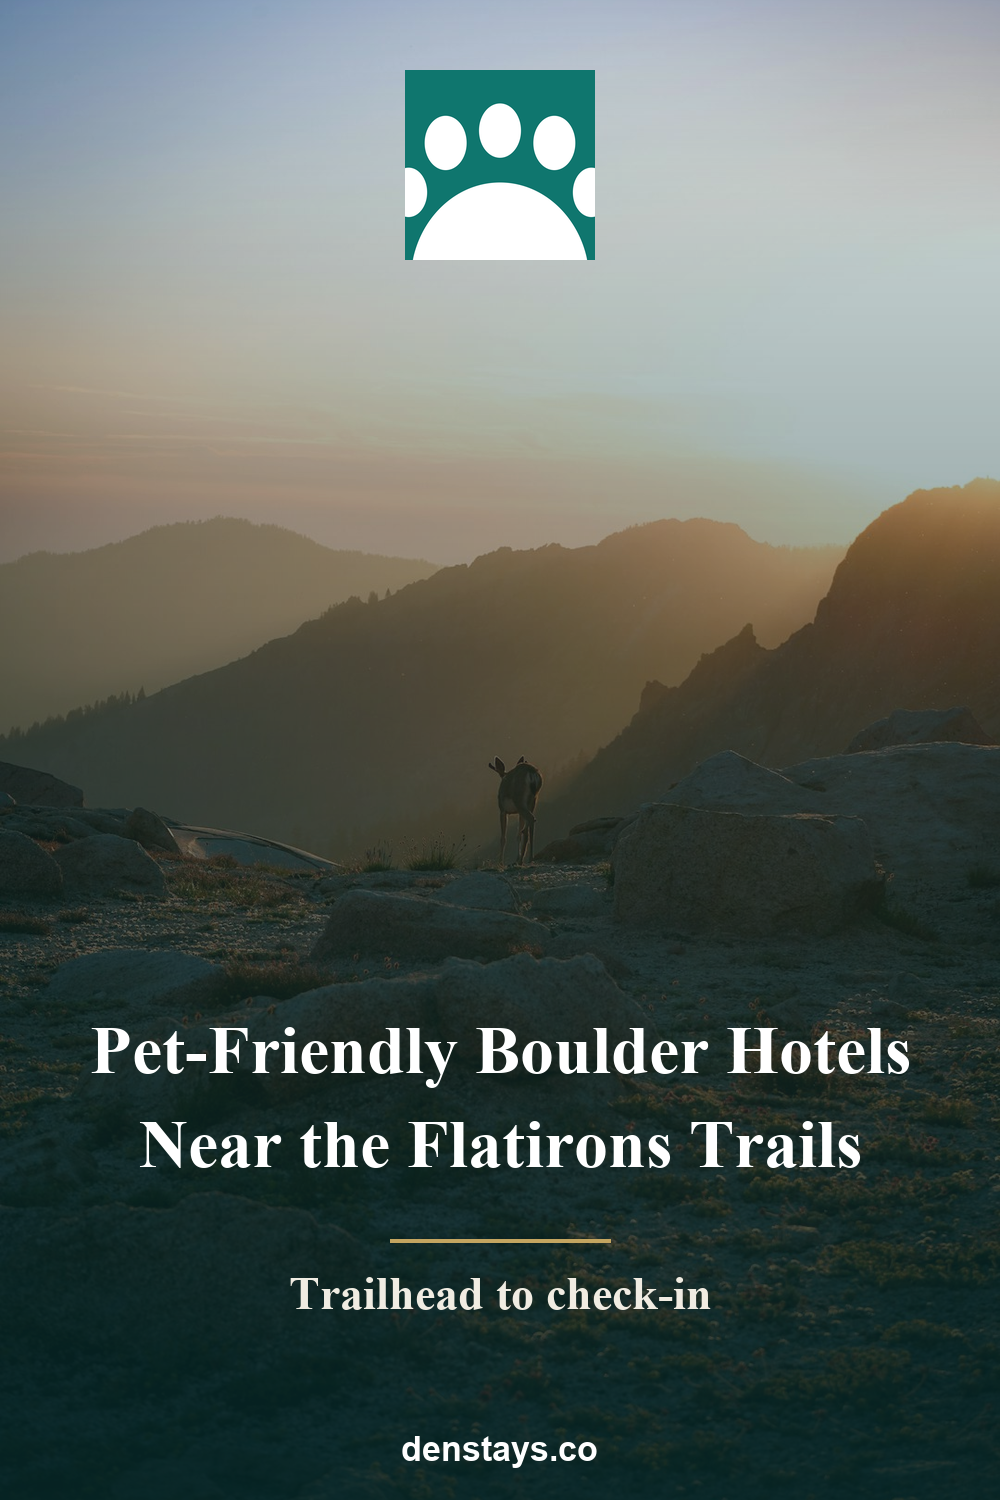
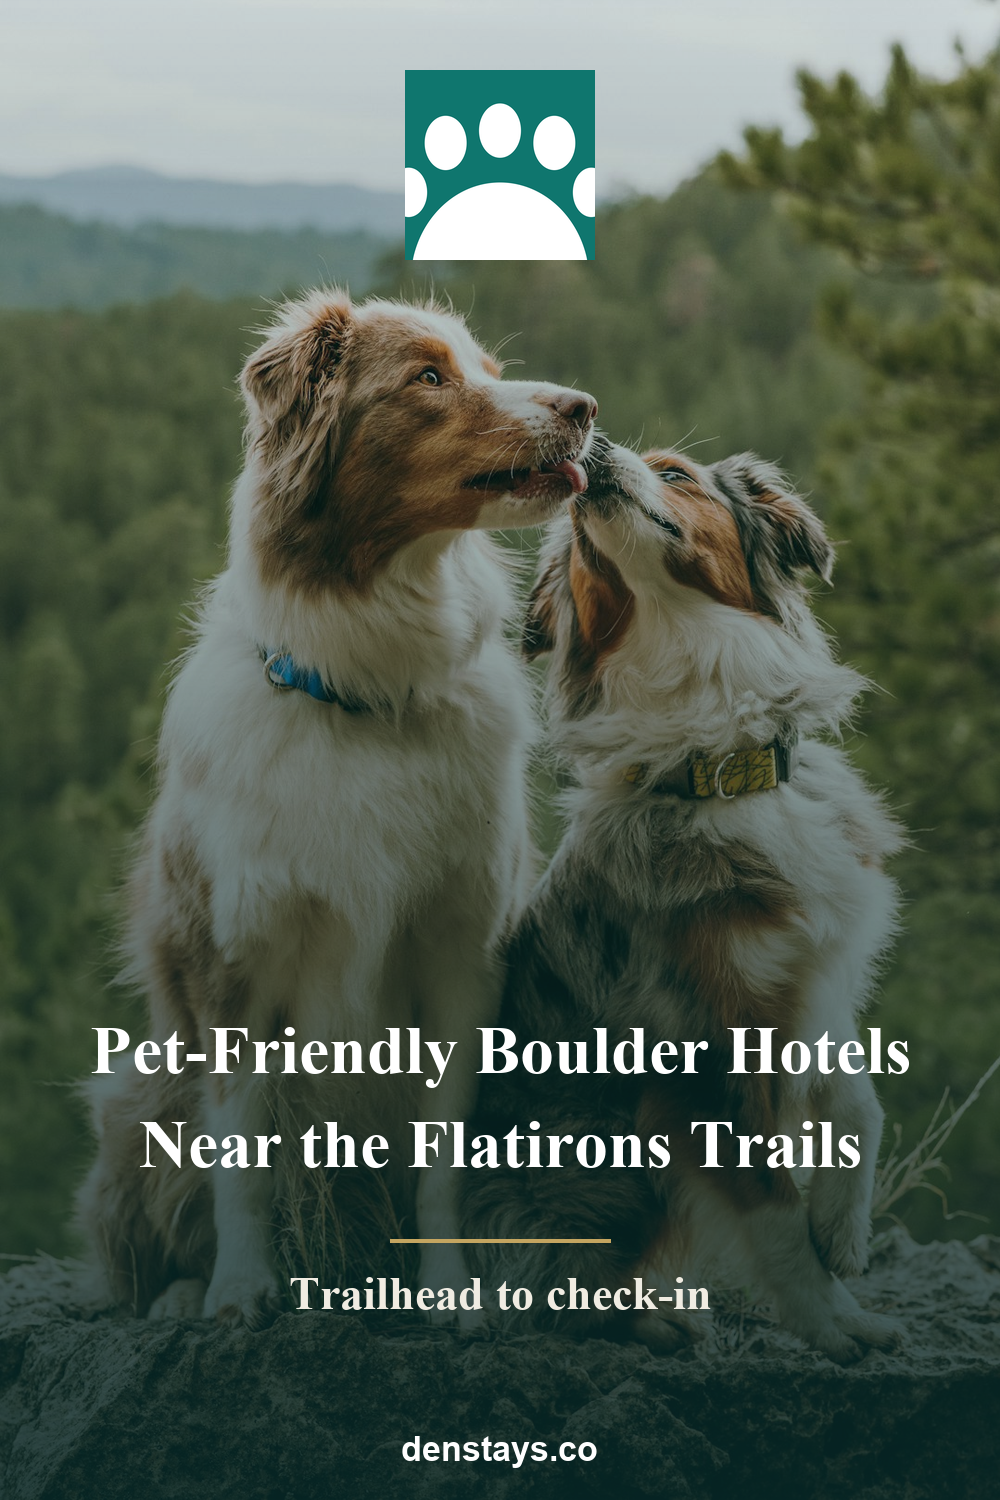
Re-render 3 held pins with vetted photos; approve to ready

diff --git a/pins/index.html b/pins/index.html
@@ -153,7 +153,7 @@ code { font-size:12px; color:#888; }
         <div class="card">
           <img src="austin-dog-parks.png" alt="Pet-Friendly Austin Hotels Near Off-Leash Dog Parks">
           <div class="meta">
-            <span class="status" style="background:#c4a560">draft</span>
+            <span class="status" style="background:#2e7d5b">ready</span>
             <span class="type">photo · dog-parks</span>
             <h3>Pet-Friendly Austin Hotels Near Off-Leash Dog Parks</h3>
             <code>austin-dog-parks</code>
@@ -171,7 +171,7 @@ code { font-size:12px; color:#888; }
         <div class="card">
           <img src="boulder-trails.png" alt="Pet-Friendly Boulder Hotels Near the Flatirons Trails">
           <div class="meta">
-            <span class="status" style="background:#c4a560">draft</span>
+            <span class="status" style="background:#2e7d5b">ready</span>
             <span class="type">photo · trail-access</span>
             <h3>Pet-Friendly Boulder Hotels Near the Flatirons Trails</h3>
             <code>boulder-trails</code>
@@ -180,7 +180,7 @@ code { font-size:12px; color:#888; }
         <div class="card">
           <img src="scottsdale-resorts.png" alt="Dog-Friendly Scottsdale Resorts With Pet Amenities">
           <div class="meta">
-            <span class="status" style="background:#c4a560">draft</span>
+            <span class="status" style="background:#2e7d5b">ready</span>
             <span class="type">band · amenities</span>
             <h3>Dog-Friendly Scottsdale Resorts With Pet Amenities</h3>
             <code>scottsdale-resorts</code>
